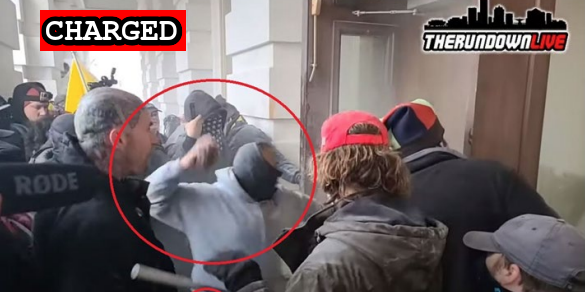
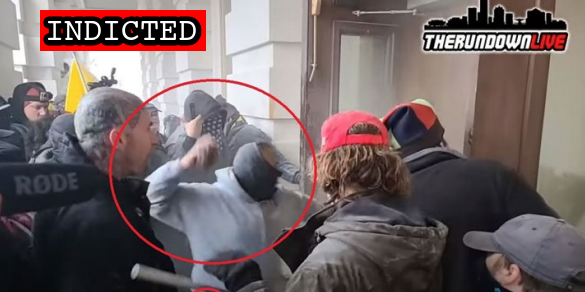
Latest import

Changed region(s): [[0.0615, 0.0308, 0.3692, 0.1849]]

diff --git a/docs/_suspects/anthony-sargent.md b/docs/_suspects/anthony-sargent.md
@@ -4,10 +4,10 @@ lastName: Sargent
 hashtag: BigBrickPitcher
 aka:
 residence: Florida
-status: Charged
+status: Indicted
 date: 2021-09-13
 charged: 2021-09-13
-indicted:
+indicted: 2021-10-22
 convicted:
 sentenced:
 dismissed:
@@ -39,3 +39,4 @@ sentence:
 
 - [News Report](https://twitter.com/ryanjreilly/status/1440346134887559178)
 - [Statement of Facts](https://www.justice.gov/usao-dc/case-multi-defendant/file/1435886/download)
+- [Indictment](https://extremism.gwu.edu/sites/g/files/zaxdzs2191/f/Anthony%20Sargent%20Indictment.pdf)

diff --git a/docs/_suspects/jonas-buxton.md b/docs/_suspects/jonas-buxton.md
@@ -36,6 +36,6 @@ videos:
 charges:
 sentence:
 ---
-
 - [News Report](https://www.kmov.com/news/st-louis-man-faces-federal-charges-for-involvement-in-january-6-capitol-riot/article_456b66e6-5a14-11ec-bbcd-a7b1b51ac5a6.html)
 - [Complaint](https://extremism.gwu.edu/sites/g/files/zaxdzs2191/f/Jonas%20Buxton%20Criminal%20Complaint.pdf)
+- [Information](https://extremism.gwu.edu/sites/g/files/zaxdzs2191/f/Jonas%20Buxton%20Information.pdf)
